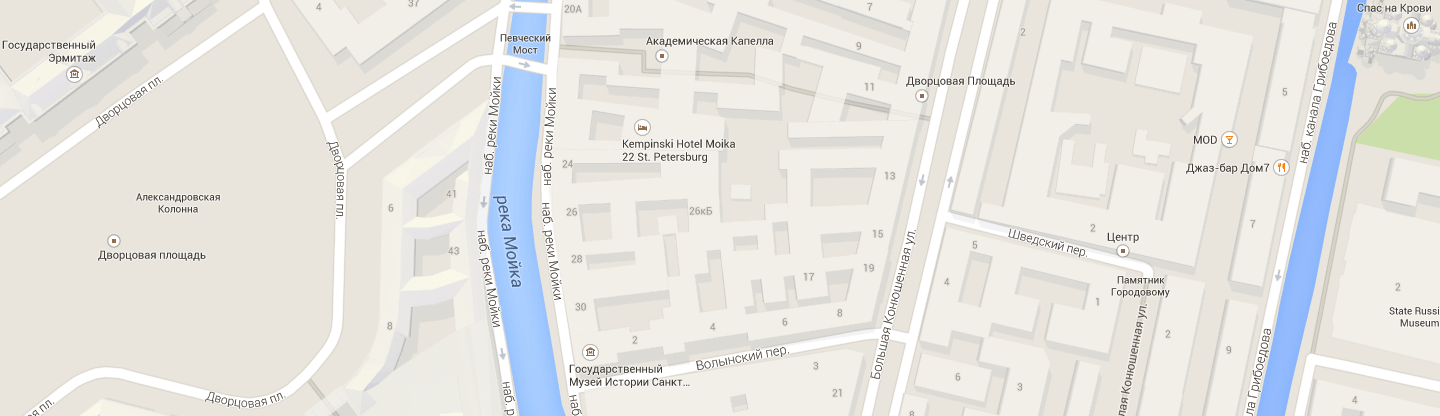
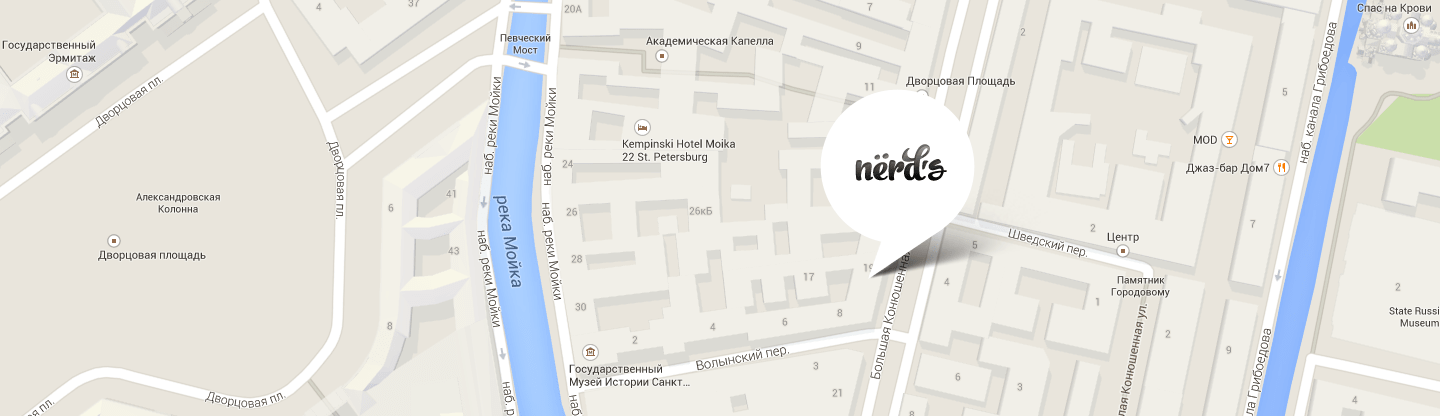
стилизовал карту

Changed region(s): [[0.5625, 0.2188, 0.6875, 0.6562]]

diff --git a/index.html b/index.html
@@ -217,18 +217,24 @@
     </main>
     <footer class="footer">
       <section class="contacts">
-        <img src="img/map.png" alt="Карта с адресом" />
-        <img src="img/map-marker.png" alt="Указатель адреса" />
         <div class="contacts__adress">
-          <h3 class="contacts__title">Nёrds design studio</h3>
-          <p class="contacts__text">
-            191186, Санкт-Петербург, ул. Б. Конюшенная, д. 19/8
-            <br />
-            тел. +7 (812) 275-75-75
-          </p>
-          <button class="button" type="button">
-            Напишите нам
-          </button>
+          <img class="contacts__map" src="img/map.png" alt="Карта с адресом" />
+          <div class="contacts__container">
+            <h3 class="contacts__title">
+              Nёrds design studio
+            </h3>
+            <p class="contacts__text">
+              191186, Санкт-Петербург,
+              <br />
+              ул. Б. Конюшенная, д. 19/8
+              <br />
+              <br />
+              тел. +7 (812) 275-75-75
+            </p>
+            <button class="contacts__button button" type="button">
+              Напишите нам
+            </button>
+          </div>
         </div>
       </section>
       <section class="social">

diff --git a/style.css b/style.css
@@ -56,6 +56,7 @@ ul {
   font-size: 16px;
   font-weight: 500;
   color: #fff;
+  border: 0;
   border-radius: 3px;
   background-color: #fb565a;
   transition: background-color 0.3s;
@@ -165,7 +166,6 @@ ul {
 .hero__button {
   padding-right: 54px;
   padding-left: 54px;
-  border: 0;
 }
 
 .hero__slider-img {
@@ -323,4 +323,43 @@ ul {
   padding-top: 45px;
   padding-bottom: 50px;
   border-bottom: 1px solid rgba(0, 0, 0, 0.1);
+}
+
+.footer {
+  padding: 80px 0 70px 0;
+}
+
+.contacts__adress {
+  position: relative;
+}
+
+.contacts__map {
+  display: block;
+  margin: 0 auto;
+  max-width: 100%;
+}
+
+.contacts__container {
+  position: absolute;
+  top: 10%;
+  left: 20%;
+  padding: 33px 50px 47px 50px;
+  background-color: #fff;
+
+}
+
+.contacts__title {
+  margin-bottom: 32px;
+  font-size: 18px;
+  text-transform: uppercase;
+}
+
+.contacts__text {
+  margin-bottom: 35px;
+  color: #666666;
+}
+
+.contacts__button {
+  outline: none;
+  text-transform: uppercase;
 }
